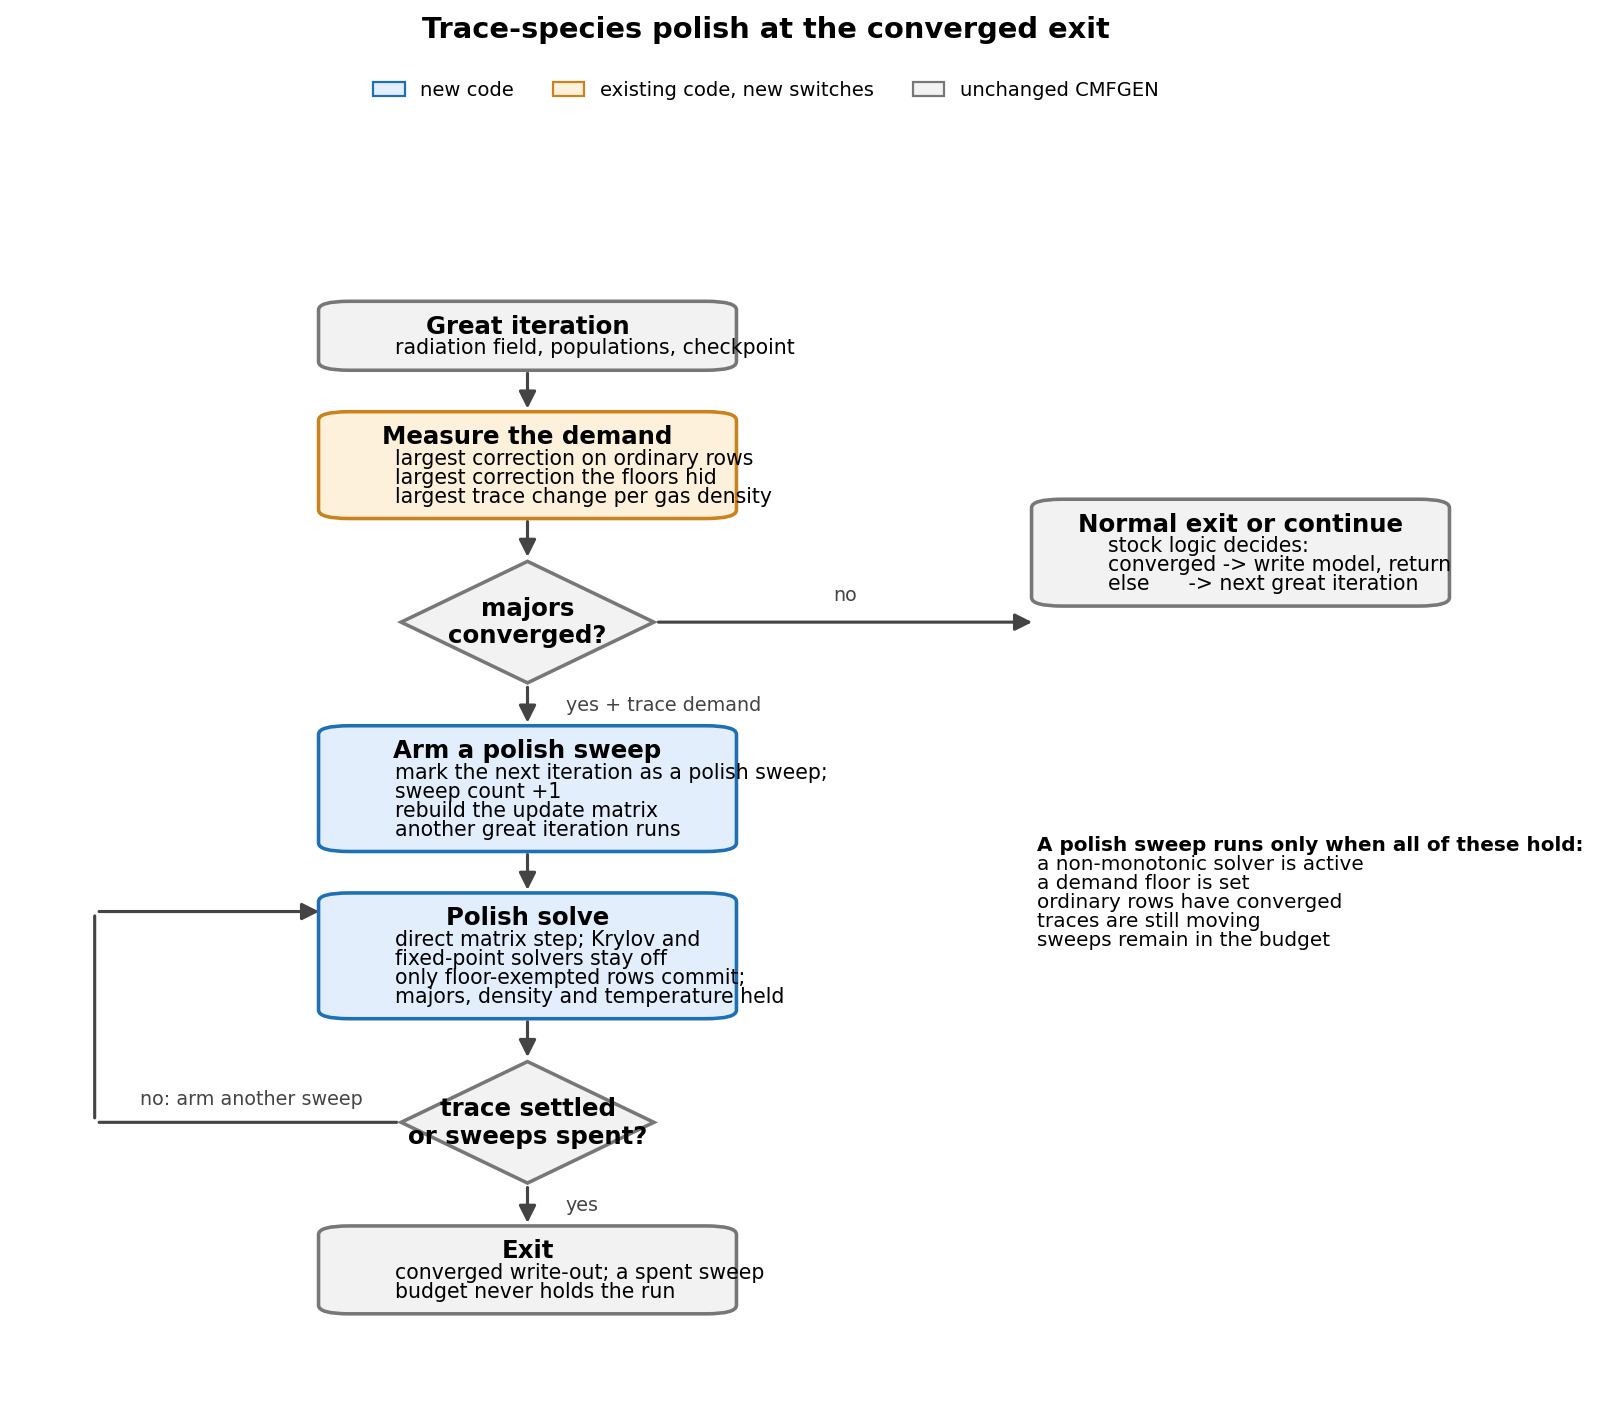
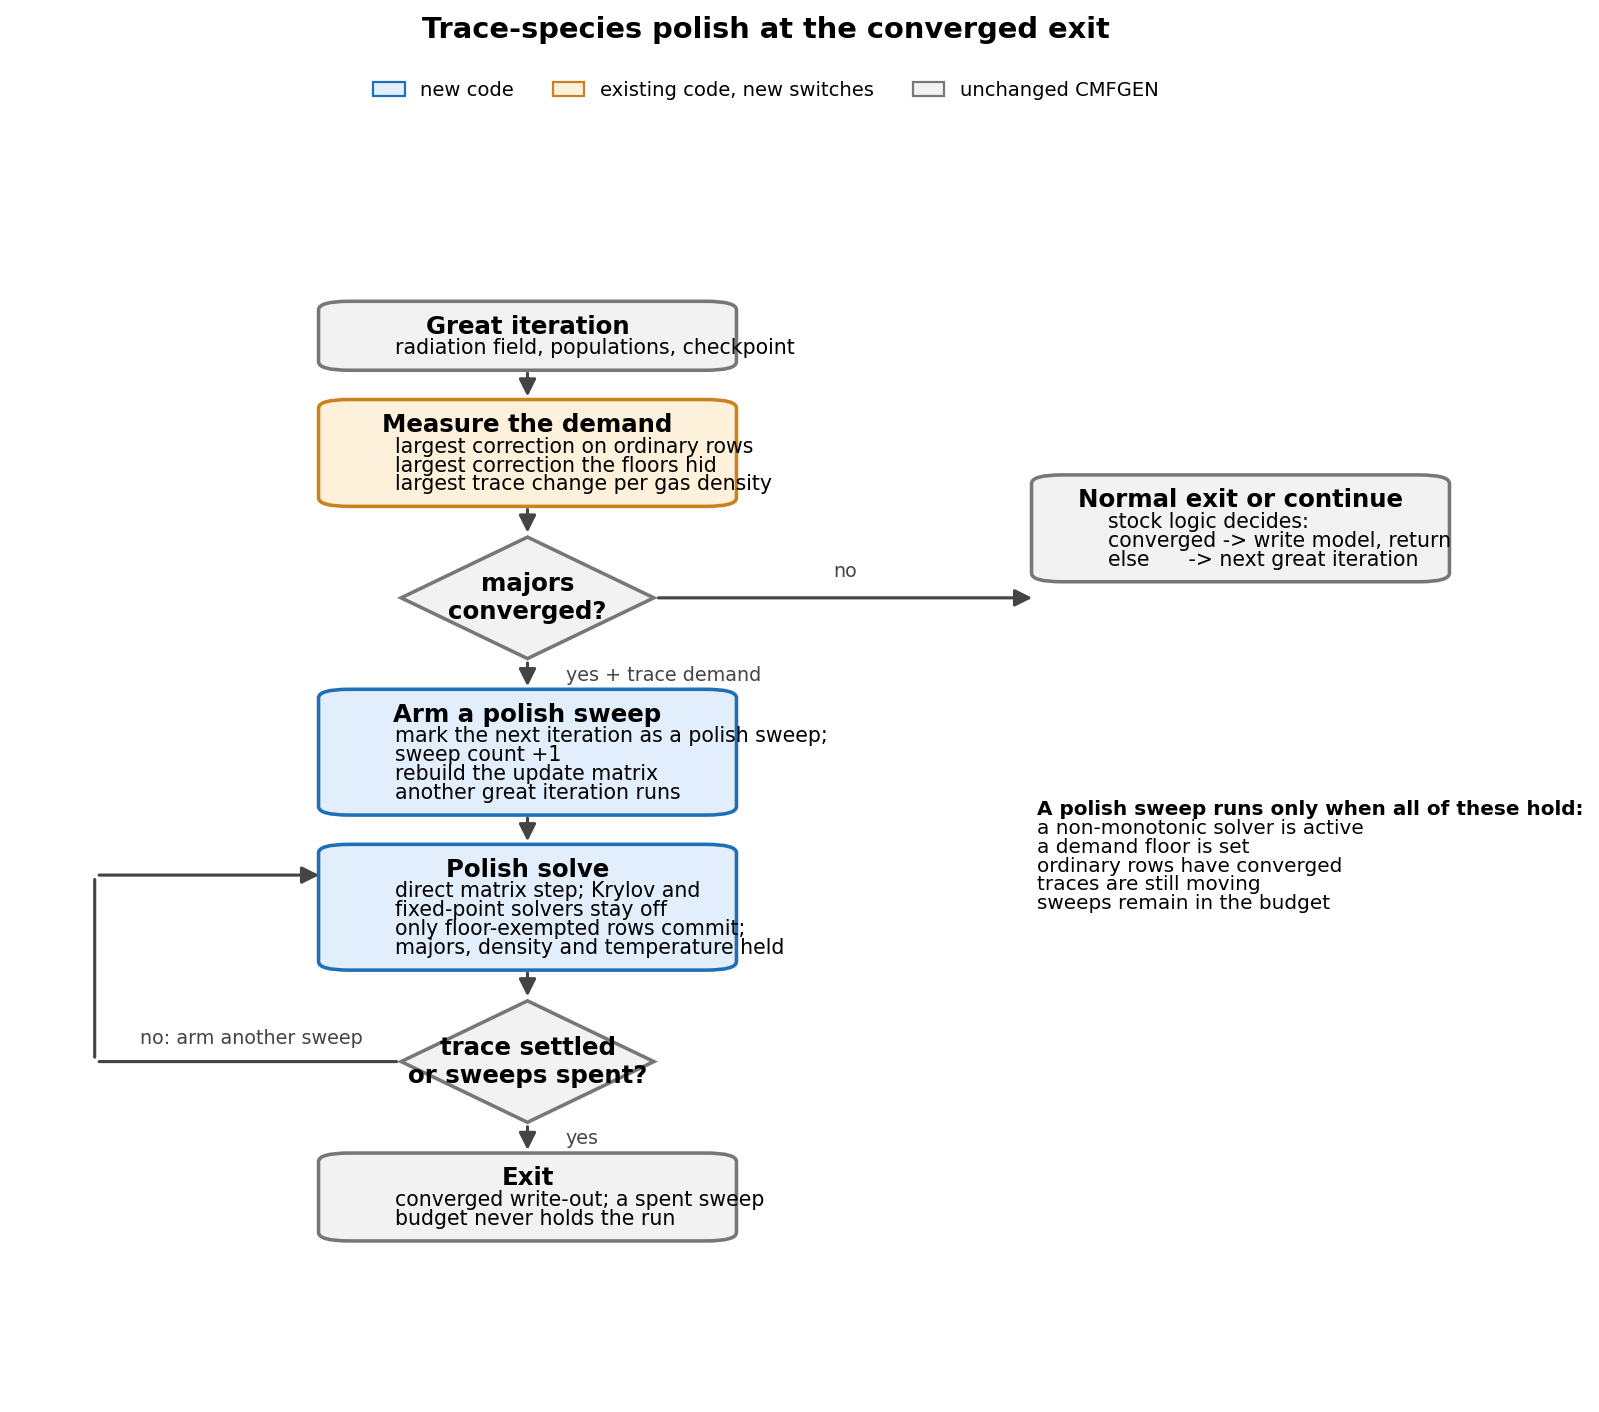
docs: tighten flowchart layout and drop program name from labels
Reduce inter-box gaps and canvas headroom; replace the CMF_FLUX
mention in the Done box with plain language.

Generated with [Devin](https://devin.ai)

diff --git a/docs/plot_iteration_cycle.py b/docs/plot_iteration_cycle.py
@@ -40,7 +40,7 @@ BOX_X = 0.75           # left edge of the main column
 TXT_PAD_L = 0.28       # text indent inside a box
 TXT_PAD_R = 0.25       # clearance between text and box edge
 RMARGIN = 0.3          # right edge margin
-GAP = 0.62             # vertical gap left for arrows between boxes
+GAP = 0.45             # vertical gap left for arrows between boxes
 DPI = 160
 FIG_W_IN = 13.6
 AX_W_FRAC = 0.775      # default subplots_adjust: right 0.9 - left 0.125
@@ -106,7 +106,7 @@ BOXES = [
 DONE_TITLE = "Done"
 DONE_LINES = [
     "populations have stopped changing;",
-    "CMF_FLUX then computes the spectrum",
+    "a separate tool computes the spectrum",
 ]
 
 DEC_TEXT = "converged?"
@@ -201,7 +201,7 @@ XLIM = S
 total_h = sum(box_height(b["lines"]) for b in BOXES)
 dec_h, done_h = 0.85, box_height(DONE_LINES)
 # +1.0 headroom for the legend row under the title
-fig_h = total_h + GAP * (len(BOXES) + 1) + dec_h + done_h + 2.2
+fig_h = total_h + GAP * (len(BOXES) + 1) + dec_h + done_h + 1.9
 
 fig, ax = plt.subplots(figsize=(FIG_W_IN, fig_h * 0.58))
 ax.set_xlim(0, XLIM)

diff --git a/docs/plot_stage_b_flow.py b/docs/plot_stage_b_flow.py
@@ -33,7 +33,7 @@ LH_BODY = 0.265
 PAD_V = 0.16
 TXT_PAD_L = 0.28
 TXT_PAD_R = 0.25
-GAP = 0.62
+GAP = 0.45
 DPI = 160
 FIG_W_IN = 12.5
 AX_W_FRAC = 0.775
